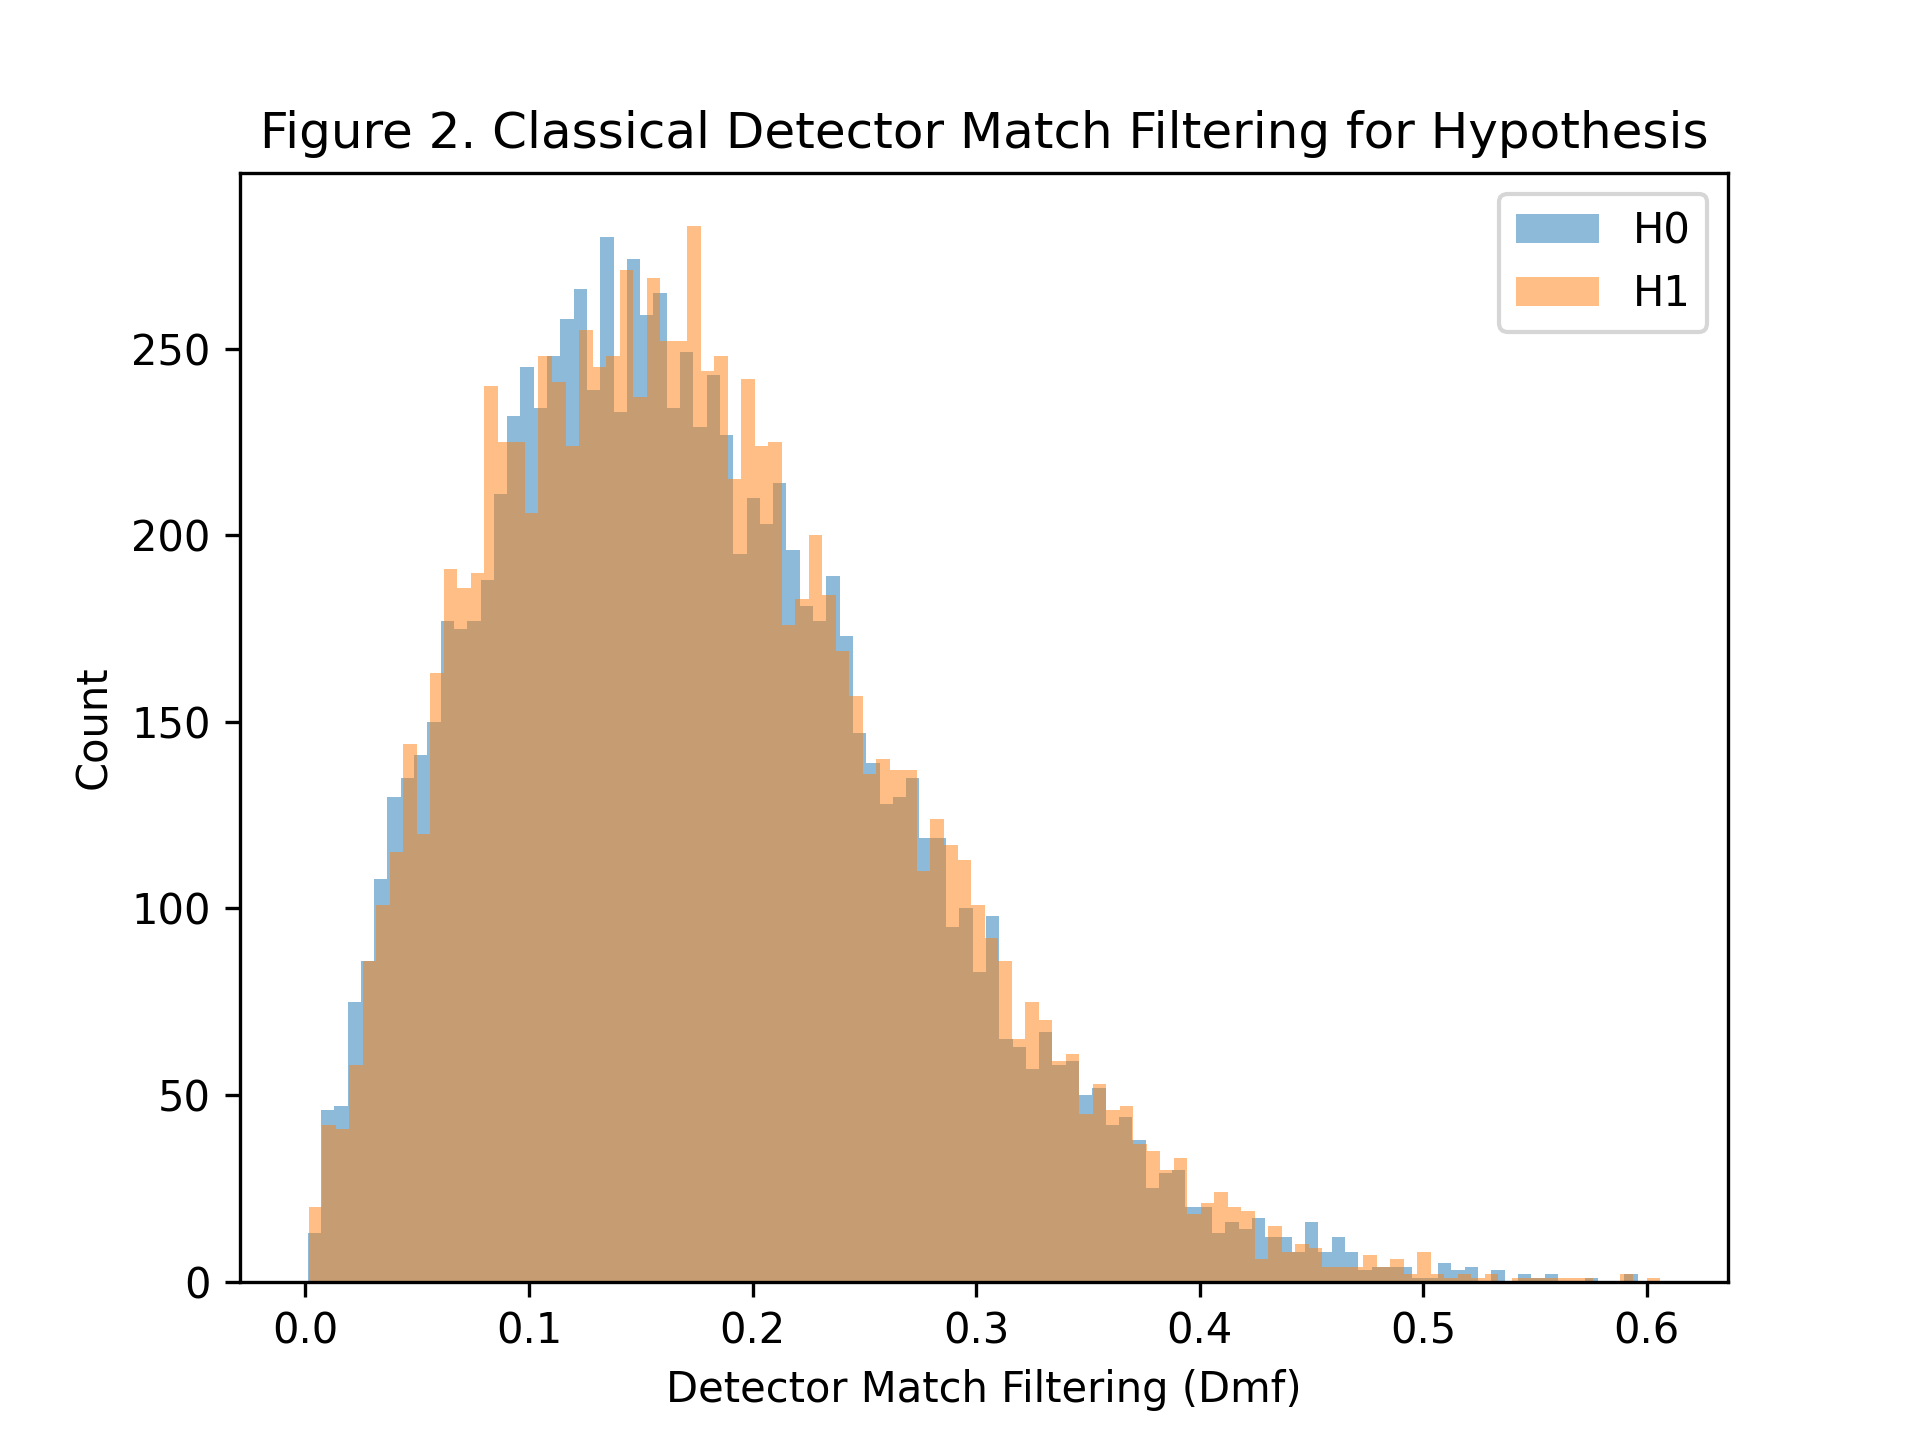
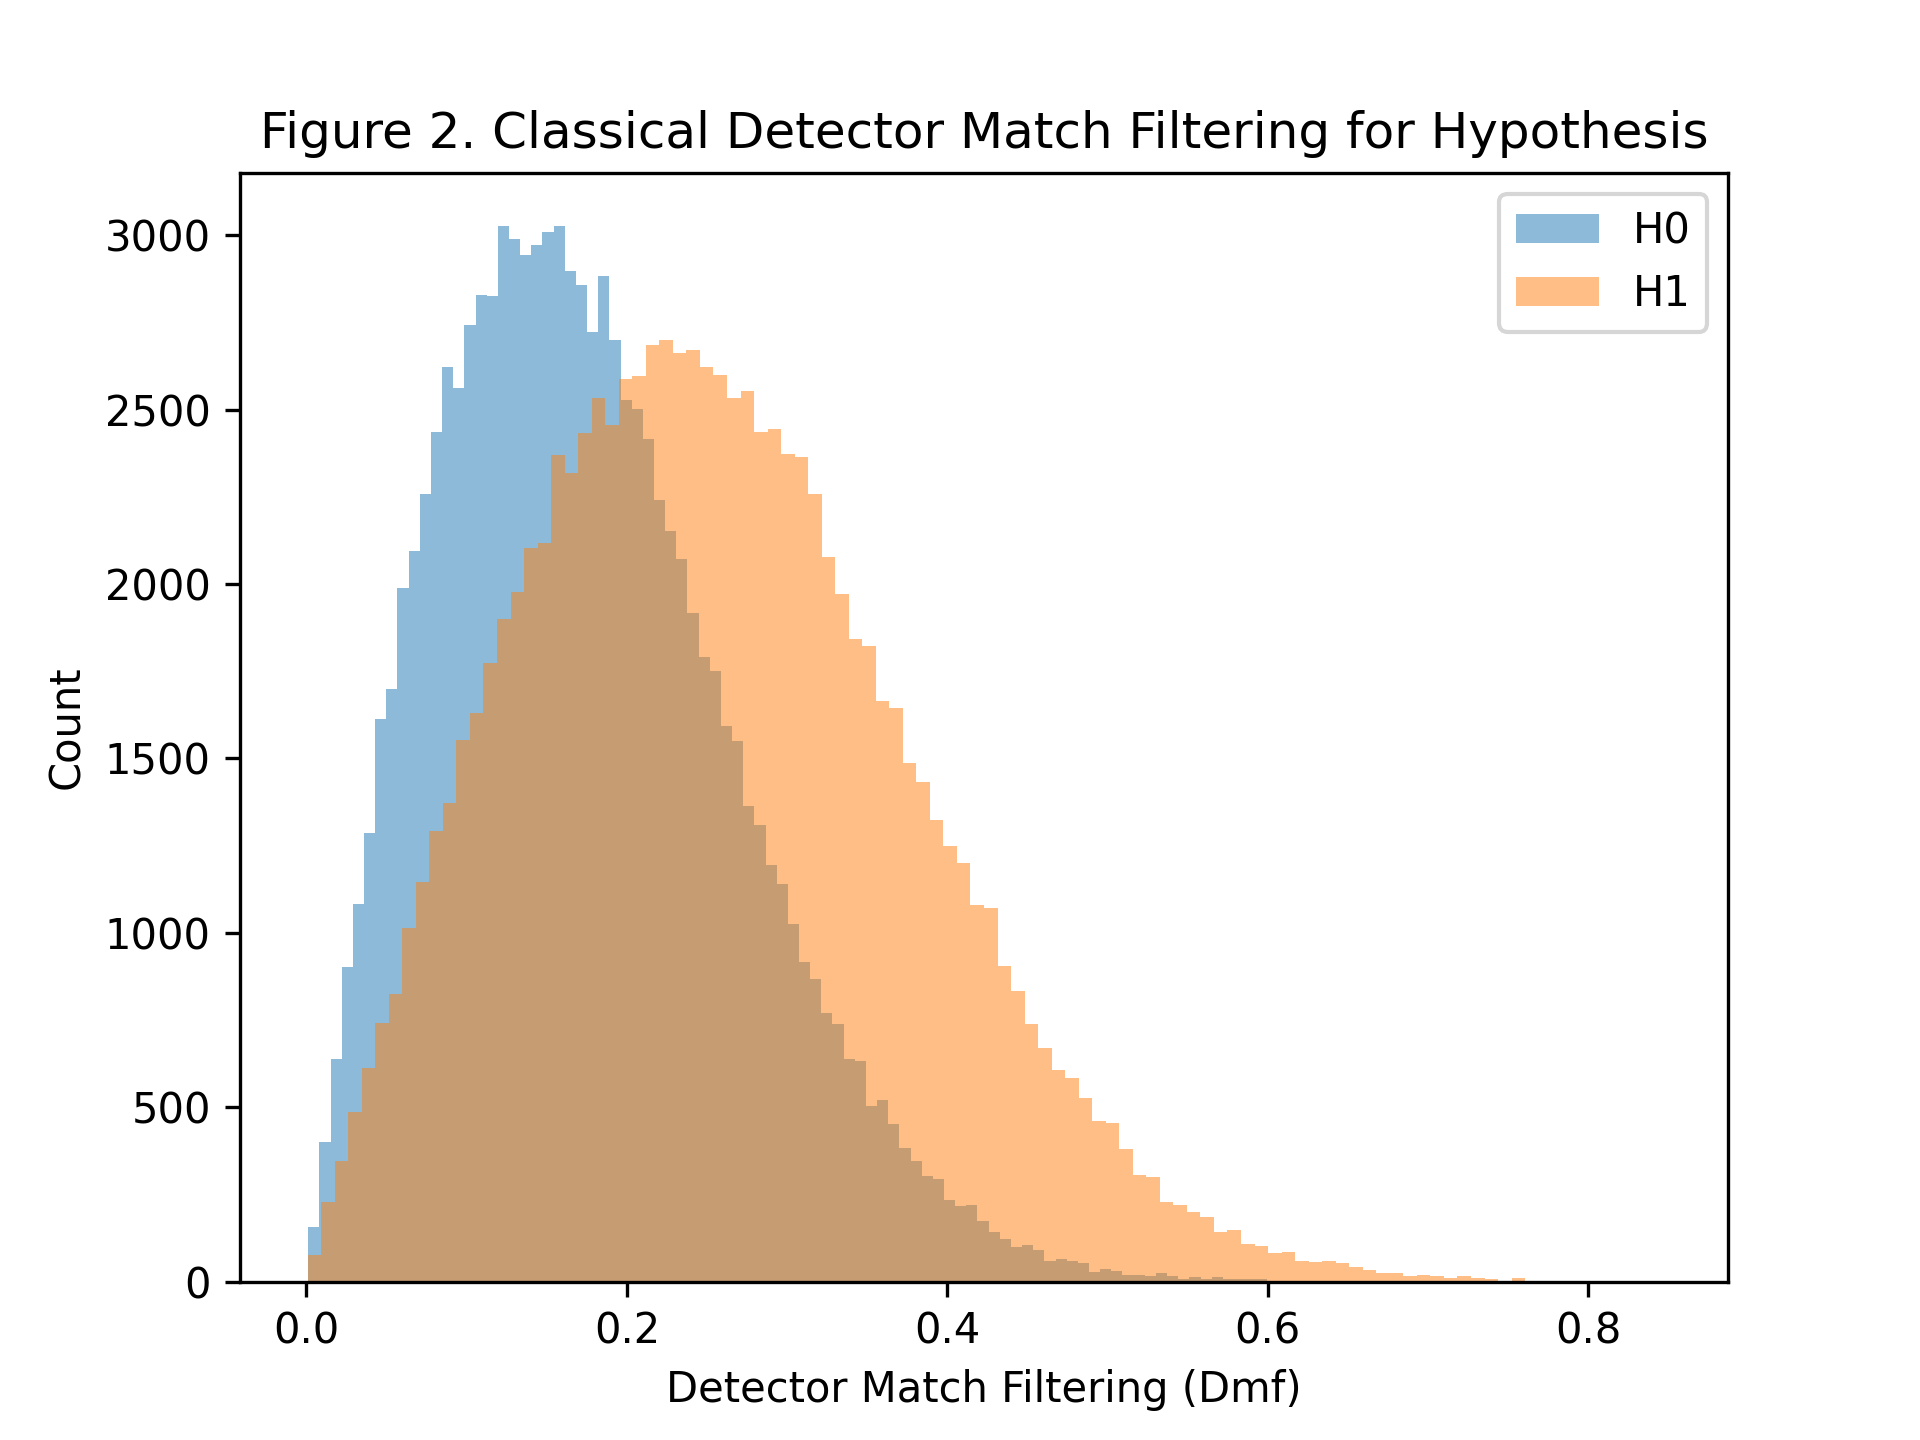
Fixed bug with alpha value in classical radar, updated histograms, added requirments.txt for python depedencies and removed unnecessary files

diff --git a/src/ClassicalRadar.cpp b/src/ClassicalRadar.cpp
@@ -17,18 +17,12 @@ ClassicalRadar::~ClassicalRadar(){}
 Status ClassicalRadar::setParameters()
 {
     if(hypothesisNULL)
-        param.rho = 0;
+        param.alpha = 0;
     else
-    {
-        uniform_real_distribution<double> dist(nextafter(0.5, 1.0), nextafter(1.0, 0.5));
-        param.rho = dist(gen);
-    }
-    
+        param.alpha = 0.1;
     normal_distribution<double> dist(0.0,1.0);
     noise.n_i = dist(gen);
     noise.n_q = dist(gen);
-
-    param.alpha = 0.01; 
 
     return SUCCESS;
 }
